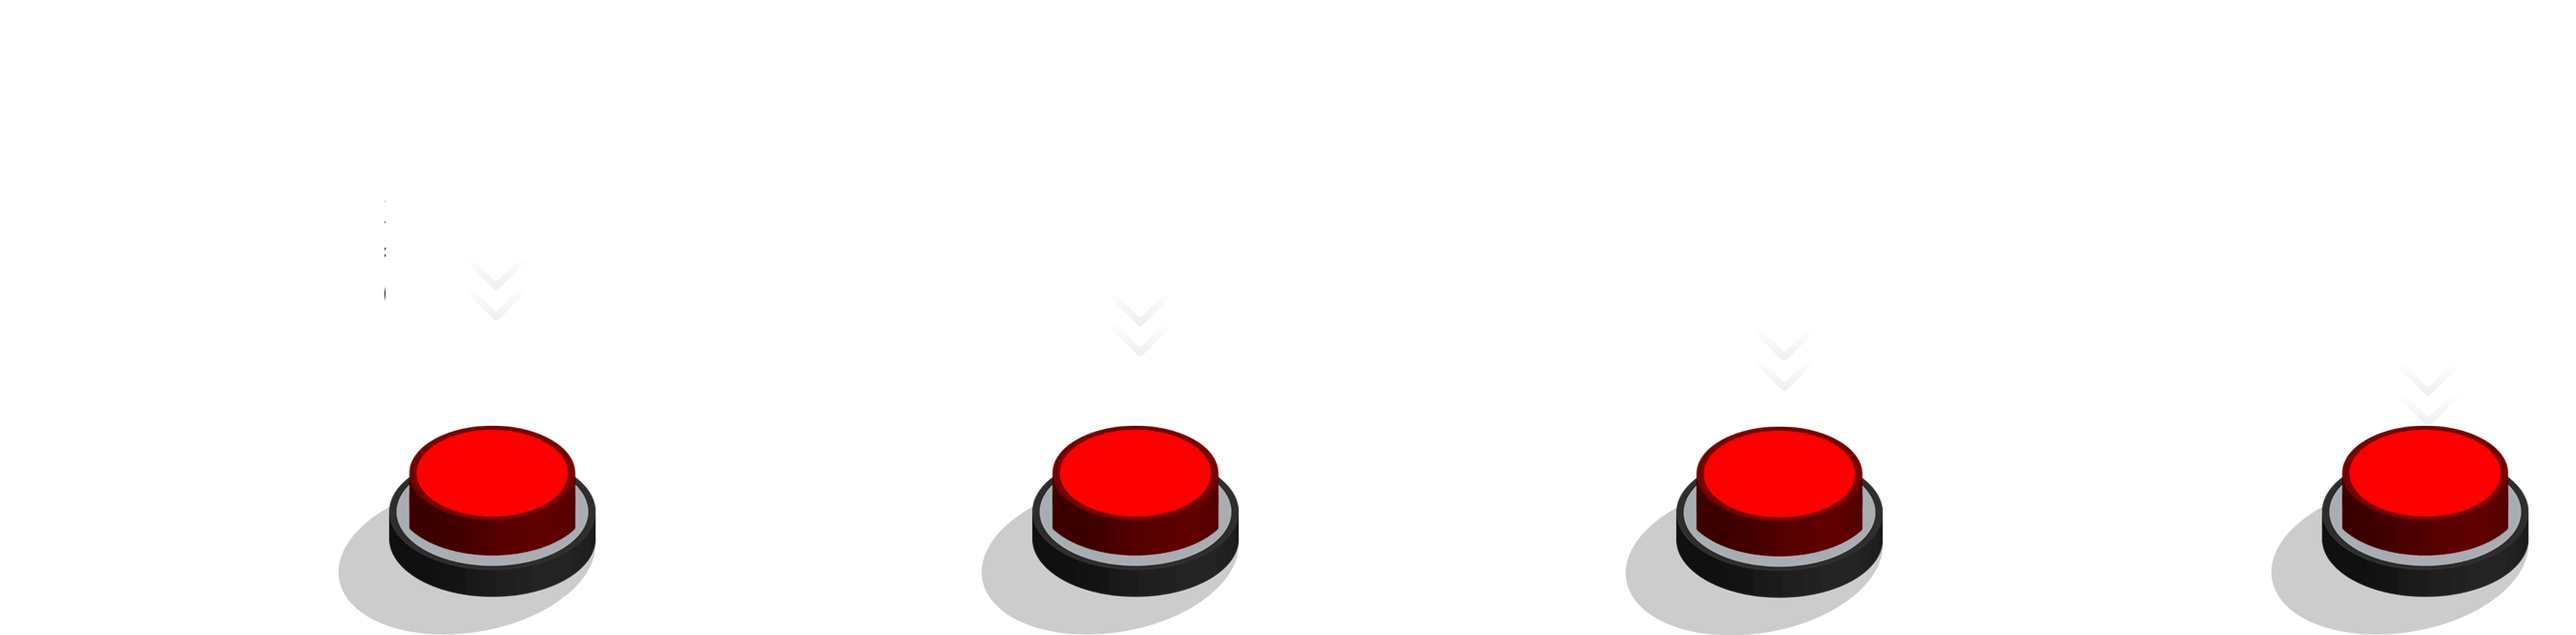
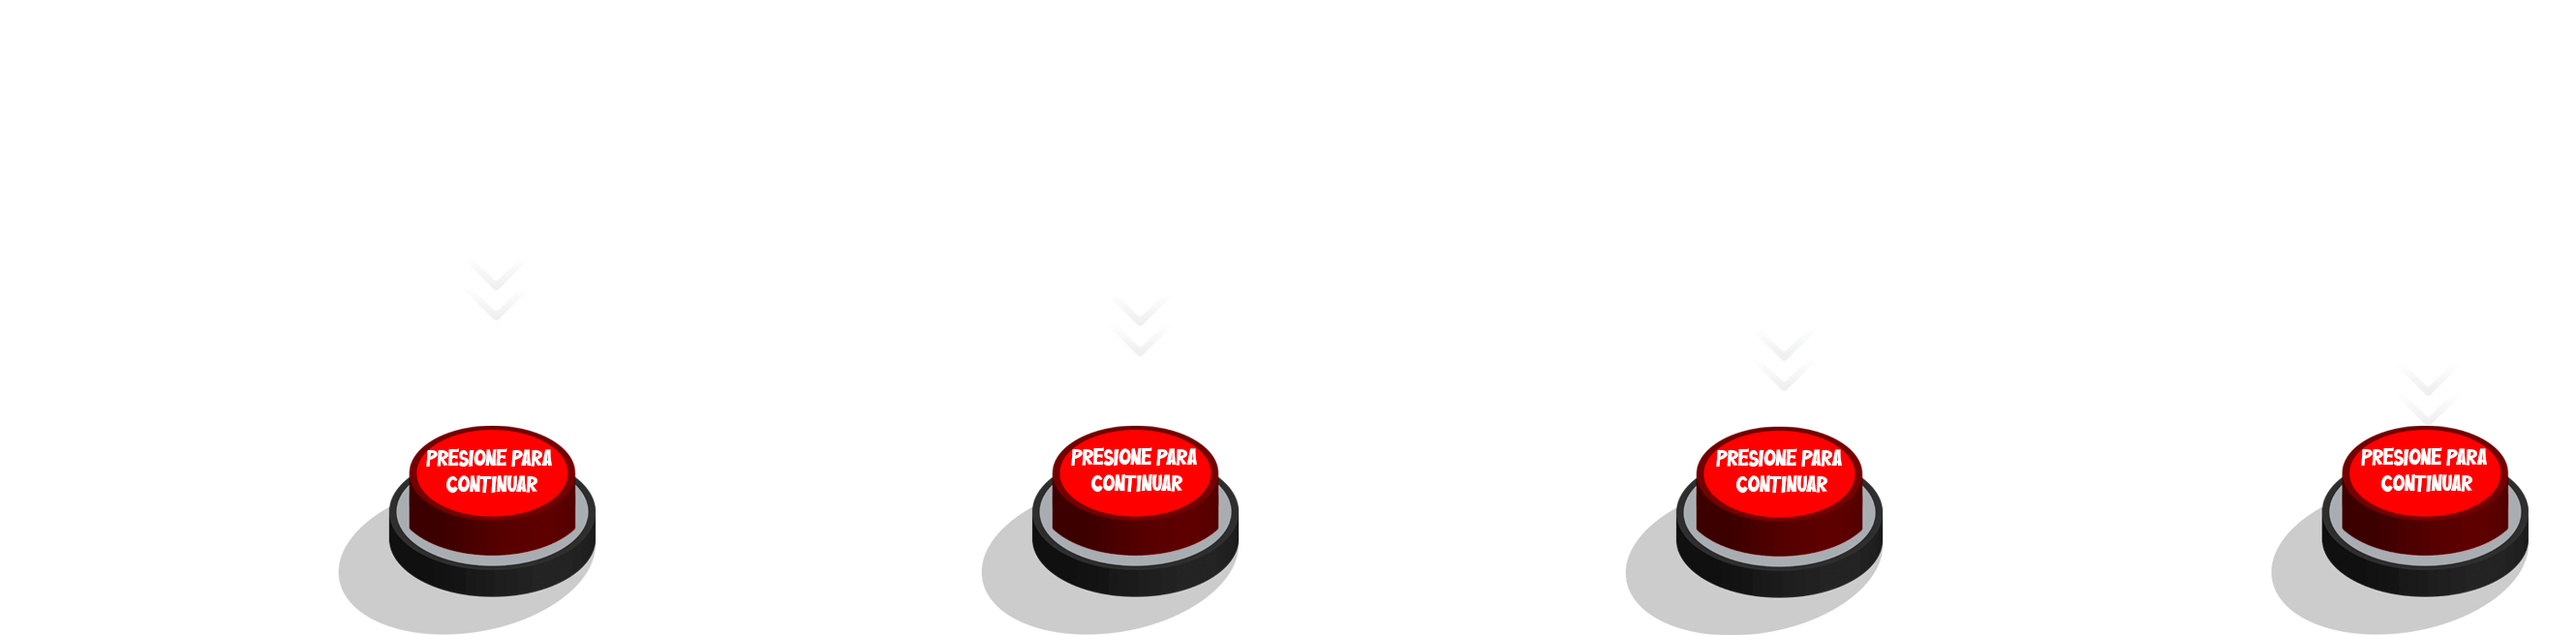
update:se actulizaron el stop en las scenas al cambiar

diff --git a/src/scenes/Mapa2.js b/src/scenes/Mapa2.js
@@ -42,8 +42,8 @@ class Mapa2 extends BaseScene {
 
   createBotonW1() {
     this.boton = this.physics.add.group();
-    this.boton.create(847, 370, 'block_3')
-      .setScale(0.1)
+    this.boton.create(830, 370, 'block_3')
+      .setScale(0.4,0.1)
       .setImmovable(true)
       .setOrigin(0, 0);
   }
@@ -78,6 +78,7 @@ class Mapa2 extends BaseScene {
     this.physics.pause();
     this.cameras.main.fade(1500);
     setTimeout(() => {
+      this.scene.stop('Mapa2');
       this.scene.start('IntroCruces');
     }, 400)
   }
@@ -246,6 +247,7 @@ class Mapa2 extends BaseScene {
       position: "center",
       customClass: "manoDeDios",
       imageUrl: "./assets/star.png",
+      background: 'url(./assets/cuadrante.png) no-repeat center center',
       imageWidth: 50,
       imageHeight: 50,
       imageAlt: "Custom image",
@@ -270,11 +272,9 @@ class Mapa2 extends BaseScene {
     Swal.fire({
       position: "center",
       customClass: "manoDeDios",
-      imageUrl: "./assets/star.png",
+      background: 'url(./assets/Historia-Panamaviejo.png) no-repeat center center',
       imageWidth: 50,
       imageHeight: 50,
-      imageAlt: "Custom image",
-      title: `<b style="font-size:25px;text-align:center;">Panamá la Vieja</b><hr><p style="font-size:18px;text-align:justify;">Fundada en 1519 por Pedrarias Dávila, la ciudad de Panamá fue el principal puerto comercial del Pacífico istmeño y vínculo con las posesiones españolas en el costa pacífica de Suramérica. En 1671 fue atacada por el corsario inglés Henry Morgan y, posteriormente, sus vecinos optaron por trasladarla a una pequeña península sobre la bahía de Panamá que tenía mejores condiciones salubres y defensivas.</p>`,
       showConfirmButton: false,
     });
     this.physics.pause();

diff --git a/src/scenes/Mapa3.js b/src/scenes/Mapa3.js
@@ -80,6 +80,7 @@ class Mapa3 extends BaseScene {
     this.physics.pause();
     this.cameras.main.fade(2000);
     setTimeout(()=>{
+      this.scene.stop('Mapa3');
       this.scene.start('IntroBoqueron');
     },400)
   }
@@ -247,6 +248,7 @@ class Mapa3 extends BaseScene {
       position: "center",
       customClass: "manoDeDios",
       imageUrl: "./assets/star.png",
+      background: 'url(./assets/cuadrante.png) no-repeat center center',
       imageWidth: 50,
       imageHeight: 50,
       imageAlt: "Custom image",
@@ -271,11 +273,9 @@ class Mapa3 extends BaseScene {
     Swal.fire({
       position: "center",
       customClass: "manoDeDios",
-      imageUrl: "./assets/star.png",
+      background: 'url(./assets/Historia-Panamaviejo.png) no-repeat center center',
       imageWidth: 50,
       imageHeight: 50,
-      imageAlt: "Custom image",
-    title: `<b style="font-size:25px;text-align:center;">Panamá la Vieja</b><hr><p style="font-size:18px;text-align:justify;">Fundada en 1519 por Pedrarias Dávila, la ciudad de Panamá fue el principal puerto comercial del Pacífico istmeño y vínculo con las posesiones españolas en el costa pacífica de Suramérica. En 1671 fue atacada por el corsario inglés Henry Morgan y, posteriormente, sus vecinos optaron por trasladarla a una pequeña península sobre la bahía de Panamá que tenía mejores condiciones salubres y defensivas.</p>`,
       showConfirmButton: false,
     });
     this.physics.pause();

diff --git a/src/scenes/Mapa1.js b/src/scenes/Mapa1.js
@@ -76,6 +76,7 @@ class Mapa1 extends BaseScene {
     this.physics.pause();
     this.cameras.main.fade(2000);
     setTimeout(()=>{
+      this.scene.stop('Mapa1');
       this.scene.start('IntroCity');
     },400)
   }
@@ -243,6 +244,7 @@ class Mapa1 extends BaseScene {
       position: "center",
       customClass: "manoDeDios",
       imageUrl: "./assets/star.png",
+      background: 'url(./assets/cuadrante.png) no-repeat center center',
       imageWidth: 50,
       imageHeight: 50,
       imageAlt: "Custom image",
@@ -267,11 +269,9 @@ class Mapa1 extends BaseScene {
     Swal.fire({
       position: "center",
       customClass: "manoDeDios",
-      imageUrl: "./assets/star.png",
+      background: 'url(./assets/Historia-Panamaviejo.png) no-repeat center center',
       imageWidth: 50,
       imageHeight: 50,
-      imageAlt: "Custom image",
-      title: `<b style="font-size:25px;text-align:center;">Panamá la Vieja</b><hr><p style="font-size:18px;text-align:justify;">Fundada en 1519 por Pedrarias Dávila, la ciudad de Panamá fue el principal puerto comercial del Pacífico istmeño y vínculo con las posesiones españolas en el costa pacífica de Suramérica. En 1671 fue atacada por el corsario inglés Henry Morgan y, posteriormente, sus vecinos optaron por trasladarla a una pequeña península sobre la bahía de Panamá que tenía mejores condiciones salubres y defensivas.</p>`,
       showConfirmButton: false,
     });
     this.physics.pause();

diff --git a/src/scenes/mundo1.js b/src/scenes/mundo1.js
@@ -165,7 +165,7 @@ class Plano1 extends BaseScene {
     Objeto() {
         if (this.infoObjeto) {
             Swal.fire({
-                position: "bottom",
+                position: "center",
                 imageUrl: "./assets/iconos/perulera.png",
                 imageWidth: 50,
                 imageHeight: 50,
@@ -176,8 +176,12 @@ class Plano1 extends BaseScene {
                 timer: 3500
             });
             this.physics.pause();
+            //this.textoTiempo.setText("-:--");//
+            clearInterval(this.intervaloTIEMPO);//
             setTimeout(() => {
                 this.physics.resume();
+                // this.tiempo=this.tiempo+1;
+                this.temporizador();//
             }, 3600)
         } else {
             // console.log("test no Funciona ya se activo")
@@ -289,6 +293,7 @@ class Plano1 extends BaseScene {
          if(this.monedas==0){
             this.tiempo='00';
          }
+
          this.monedas<0 ? this.textoMonedas.setText(`x0`) : this.textoMonedas.setText(`x${this.monedas}`);
       /*Fin Resta Monedas*/
     }
@@ -340,6 +345,7 @@ class Plano1 extends BaseScene {
         this.camara.fade(2500);
         setTimeout(() => {
             this.physics.resume();
+            this.scene.stop('Plano1');
             this.scene.start('Mapa2');
         }, 2000)
     }

diff --git a/src/scenes/mundo3.js b/src/scenes/mundo3.js
@@ -365,6 +365,7 @@ class Plano3 extends BaseScene {
         setTimeout(() => {
             this.physics.resume();
             this.game.sound.stopAll();
+            this.scene.stop('Plano3');
             this.scene.start('SavePlayer');
         }, 2000)
     }
@@ -725,7 +726,7 @@ class Plano3 extends BaseScene {
     ObjetoMessage() {
         if (this.infoObjeto) {
             Swal.fire({
-                position: "bottom",
+                position: "center",
                 imageUrl: "./assets/iconos/dineroBolsa.png",
                 imageWidth: 50,
                 imageHeight: 50,
@@ -736,8 +737,10 @@ class Plano3 extends BaseScene {
                 timer: 3500
             });
             this.physics.pause();
+            clearInterval(this.intervaloTIEMPO);//limpio intervalo
             setTimeout(() => {
                 this.physics.resume();
+                this.temporizador();//vuelvo a lanzar funcion con valor actual antes del clear
             }, 3600)
         } else {
             // console.log("test no Funciona ya se activo")

diff --git a/src/scenes/mundo2.js b/src/scenes/mundo2.js
@@ -339,6 +339,7 @@ class Plano2 extends BaseScene {
         this.camara.fade(2500);
         setTimeout(() => {
             this.physics.resume();
+            this.scene.stop('Plano2');
             this.scene.start('Mapa3');
         }, 2000)
     }
@@ -680,7 +681,7 @@ class Plano2 extends BaseScene {
     ObjetoMessage() {
         if (this.infoObjeto) {
             Swal.fire({
-                position: "bottom",
+                position: "center",
                 imageUrl: "./assets/iconos/diamantes.png",
                 imageWidth: 50,
                 imageHeight: 50,
@@ -691,8 +692,10 @@ class Plano2 extends BaseScene {
                 timer: 3500
             });
             this.physics.pause();
+            clearInterval(this.intervaloTIEMPO);//
             setTimeout(() => {
                 this.physics.resume();
+                this.temporizador();//
             }, 3600)
         } else {
             // console.log("test no Funciona ya se activo")

diff --git a/src/scenes/IntroBoqueron.js b/src/scenes/IntroBoqueron.js
@@ -48,6 +48,7 @@ class IntroBoqueron extends BaseScene {
             this.player1.play('celebrateV', true);
             this.activacion = false;
             setTimeout(() => {
+                this.scene.stop('IntroBoqueron');
                 this.scene.start('Plano3');
             }, 1500);
         }
@@ -58,6 +59,7 @@ class IntroBoqueron extends BaseScene {
             this.player1.play('celebrateV', true);
             this.activacion = false;
             setTimeout(() => {
+                this.scene.stop('IntroBoqueron');
                 this.scene.start('Plano3');
             }, 1500);
         }

diff --git a/src/scenes/IntroCruces.js b/src/scenes/IntroCruces.js
@@ -45,6 +45,7 @@ class IntroCruces extends BaseScene {
             this.player1.play('celebrateV', true);
             this.activacion=false;
             setTimeout(()=>{
+                this.scene.stop('IntroCruces');
                 this.scene.start('Plano2');
             },1500)
         }
@@ -55,6 +56,7 @@ class IntroCruces extends BaseScene {
             this.player1.play('celebrateV', true);
             this.activacion=false;
             setTimeout(()=>{
+                this.scene.stop('IntroCruces');
                 this.scene.start('Plano2');
             },1500)
         }

diff --git a/src/scenes/SelectRole.js b/src/scenes/SelectRole.js
@@ -31,6 +31,7 @@ class SelectRole extends BaseScene {
                 this.musicAmbiente.stop();
                 this.musciNino.stop();
                 this.musicNina.stop();
+                this.scene.stop('SelectRole');
                 this.scene.start('IntroScene');
 
             }
@@ -39,6 +40,7 @@ class SelectRole extends BaseScene {
                 this.musicAmbiente.stop();
                 this.musciNino.stop();
                 this.musicNina.stop();
+                this.scene.stop('SelectRole');
                 this.scene.start('IntroScene');
             }
         }

diff --git a/src/scenes/IntroCity.js b/src/scenes/IntroCity.js
@@ -46,6 +46,7 @@ class IntroCity extends BaseScene {
             this.player1.play('celebrateV', true);
             this.activacion=false;
             setTimeout(()=>{
+                this.scene.stop('IntroCity');
                 this.scene.start('Plano1');
             },1500);
         }
@@ -56,6 +57,7 @@ class IntroCity extends BaseScene {
             this.player1.play('celebrateV', true);
             this.activacion=false;
             setTimeout(()=>{
+                this.scene.stop('IntroCity');
                 this.scene.start('Plano1');
             },1500)
         }

diff --git a/src/scenes/MenuScene.js b/src/scenes/MenuScene.js
@@ -66,6 +66,7 @@ class MenuScene extends BaseScene {
           setTimeout(() => {
             this.mSleccion.stop();
           }, 2000);
+          this.scene.stop('MenuScene');
           this.scene.start('SelectRole');
           break;
         case 713:
@@ -76,6 +77,7 @@ class MenuScene extends BaseScene {
           setTimeout(() => {
             this.mSleccion.stop();
           }, 2000);
+          this.scene.stop('MenuScene');
           this.scene.start('IntroScene');
           break;
 

diff --git a/index.html b/index.html
@@ -11,8 +11,17 @@
       }
 
       .manoDeDios{
-        width: 850px !important;
+        width: 784px !important;
+        height: 591px !important;
       }
+
+      .custom-swal-popup {
+        background-color: transparent !important; /* Fondo transparente */
+      }
+      .swal2-container {
+        background-color: rgba(0, 0, 0, 0.4) !important; /* Color de la superposición */
+      }
+
     </style>
   </head>
   <body>
